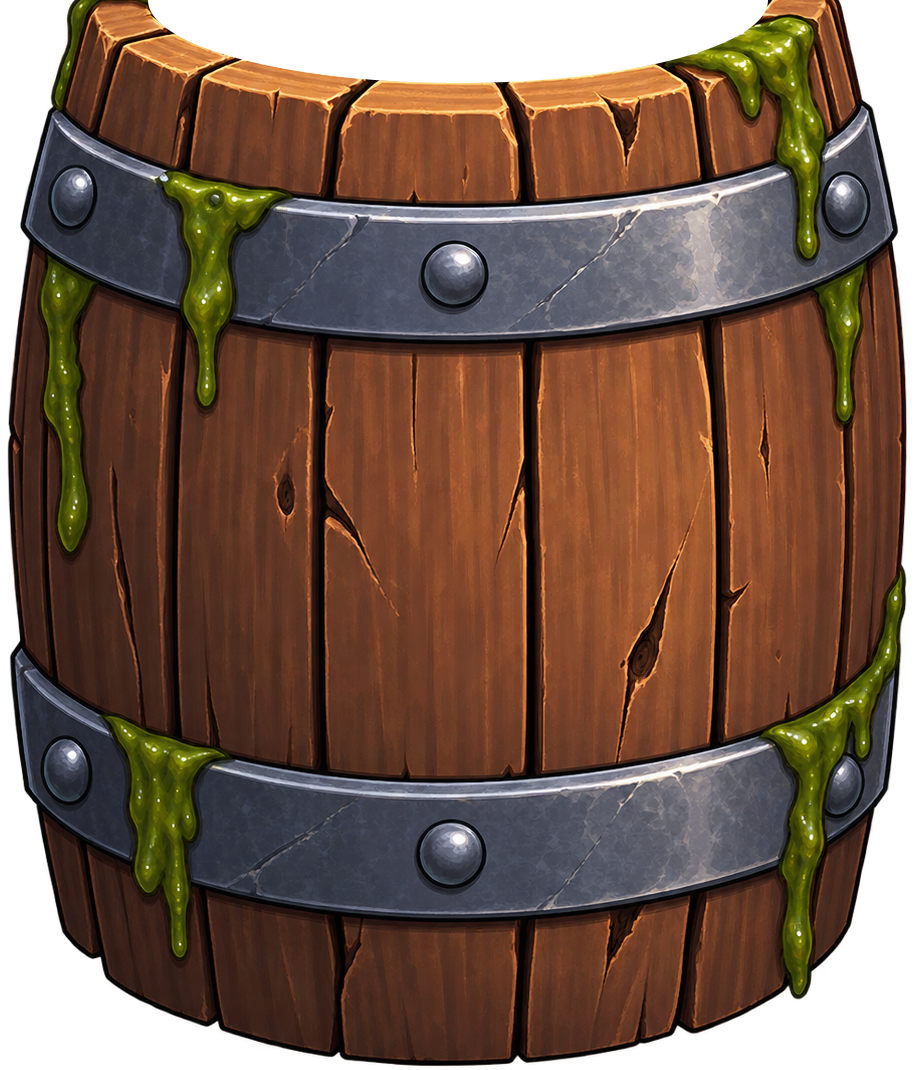
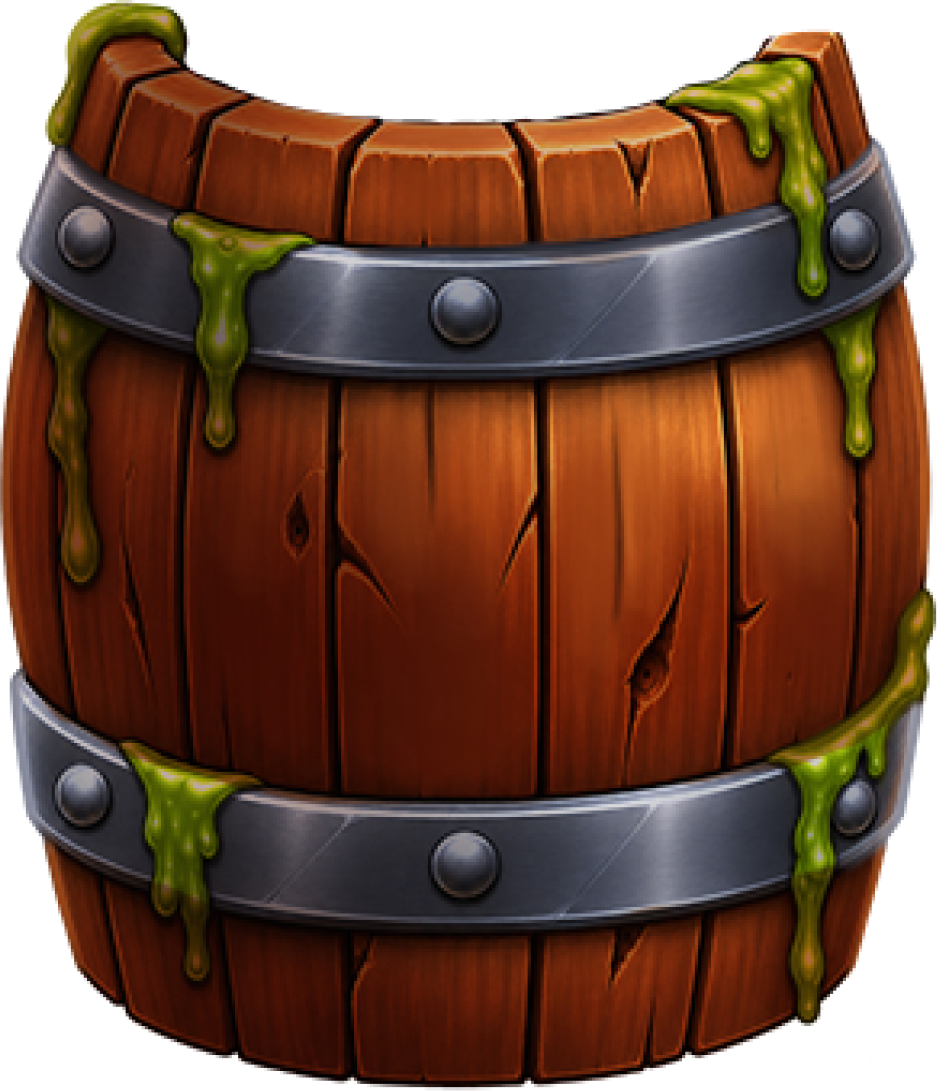
crazy-time: Ocean Voyage's barrel of gold uses the designer's new coin barrel
The three layers (barrelBack, coinBarrel, BarrelFront) come from the Figma "coin barrel" frame,
rendered at one scale, cropped to their art and saved over barrel_golds/ (PNG sources + webp q90).
Placement is read off the Figma frame in the new front picture's pixels (937x1091): back above
the front's top edge, the 812x524 heap standing in the mouth. The heap now travels from hidden under
the rim, to just showing on the first barrel, to the designer's full pile on the last; the total
sits on the new top hoop and coins land at the mouth. The barrel's size on screen is unchanged.

diff --git a/apps/crazy-time/src/components/rooms/RoomOceanVoyageV2.svelte b/apps/crazy-time/src/components/rooms/RoomOceanVoyageV2.svelte
@@ -100,27 +100,29 @@
 	 * whatever of the heap is still below its rim, and the heap rises out of it a little with every
 	 * barrel collected (`goldTip`).
 	 *
-	 * Everything is in the front picture's own pixels (916×1070), which the barrel is drawn at
-	 * `barrelU` of. `back` is cropped to its art (`barrel_back.webp`, 764×191) and set so its rim meets
-	 * the front's at the front's top edge; the heap (`gold_pile.webp`, cropped to 1006×965) is drawn
-	 * at 0.8 of its size, centred on the mouth, `tip` being where its peak is down it.
+	 * The art is the designer's (Figma "coin barrel": barrelBack, coinBarrel, BarrelFront), each layer
+	 * cropped to its art at one scale. Everything is in the front picture's own pixels (937×1091), which
+	 * the barrel is drawn at `barrelU` of, placed as the Figma frame has them: `back` (758×264) sits
+	 * above the front's top edge so its rim meets the front's, and the heap (`gold_pile.webp`, 812×524)
+	 * stands in the mouth with its peak 197 px above the front's top edge, `tip` being where its peak
+	 * is down the picture (its top edge).
 	 */
 	const GOLD_BACK = staticPath('img/ocean-voyage/barrel_golds/barrel_back.webp');
 	const GOLD_FRONT = staticPath('img/ocean-voyage/barrel_golds/barrel_front.webp');
 	const GOLD_PILE = staticPath('img/ocean-voyage/barrel_golds/gold_pile.webp');
 	const GOLD_PX = {
-		front: { w: 916, h: 1070 },
-		back: { x: 74, y: -107, w: 764 },
-		pile: { x: 43.4, w: 804.8, tip: 92.8 },
+		front: { w: 937, h: 1091 },
+		back: { x: 83.8, y: -86.9, w: 758 },
+		pile: { x: 22.2, w: 812, tip: 0 },
 	};
 	/**
-	 * Where the heap's peak is, down the front picture: under the near rim (out of sight) before
-	 * anything is collected; just showing in the mouth on the first barrel; and with the whole heap
-	 * standing up out of the barrel, its foot at the rim, on the last.
+	 * Where the heap's peak is, down the front picture: under the near rim (out of sight; the rim is
+	 * 123 px down at its middle) before anything is collected; just showing in the mouth on the first
+	 * barrel; and the whole heap standing up out of the barrel, as the designer drew it, on the last.
 	 */
-	const GOLD_TIP = { empty: 140, first: -40, full: -603 };
+	const GOLD_TIP = { empty: 150, first: 40, full: -197.5 };
 	/** Where the total is written on the barrel: on its top hoop, down the front picture. */
-	const GOLD_LABEL_Y = 225;
+	const GOLD_LABEL_Y = 300;
 	/** The barrel's width against the wheel's, and how far up the wheel (in wheel widths from the
 	    foot of the screen) it stands — low enough that the wheel hides its foot. */
 	const GOLD_BARREL_W = 0.35;
@@ -150,7 +152,7 @@
 	/** If no coin has landed by now (a tab given no animation frames), the gold goes in anyway. */
 	const FOUNTAIN_BACKSTOP_MS = 2200;
 	/** Where in the barrel the coins go: just inside its mouth, down the front picture. */
-	const GOLD_MOUTH_Y = -30;
+	const GOLD_MOUTH_Y = 0;
 	/**
 	 * The coins' sounds are plinko's win shower's: its shuffle as they are thrown (`coinShuffle`), and a
 	 * coin flip as each lands (`coinFlip`), each at a pitch of its own and no closer together than its
